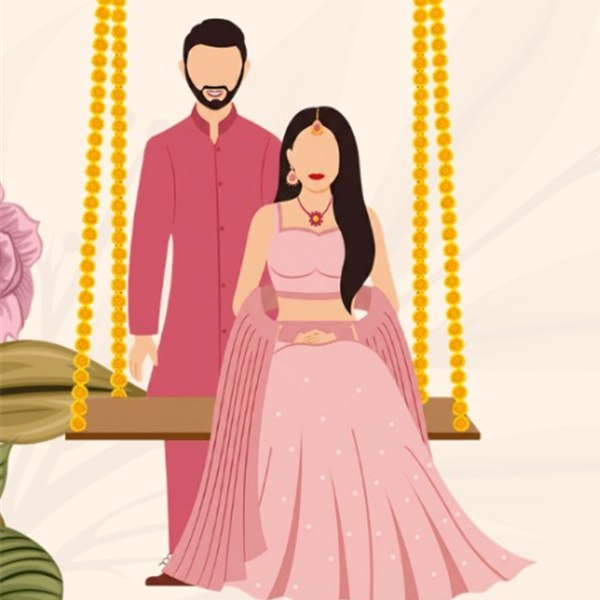
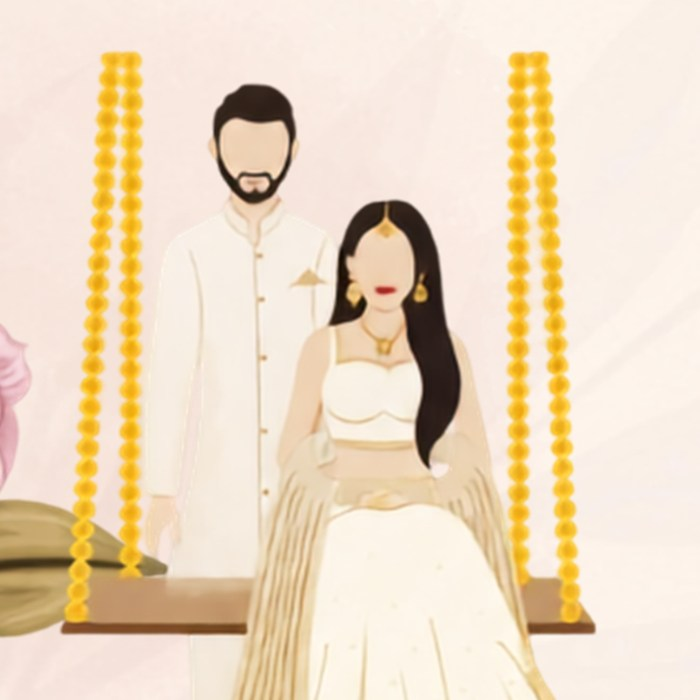
Refresh invitation imagery and story content
Copilot-Session: 50750d5d-2e1d-4188-bc5c-9cda99d4ebc3

diff --git a/frontend/src/components/invitation/Hero.js b/frontend/src/components/invitation/Hero.js
@@ -13,61 +13,65 @@ export default function Hero() {
   return (
     <section
       data-testid="hero-section"
-      className="relative flex min-h-screen flex-col items-center justify-center overflow-hidden px-6 pb-24 pt-20 text-center"
+      className="relative flex min-h-[100svh] flex-col items-center justify-center overflow-hidden px-5 pb-24 pt-16 text-center sm:px-6 sm:pt-20"
     >
       <img
-        src={images.heroFrame}
+        src={images.heroBackground}
         alt=""
         aria-hidden="true"
-        className="animate-sway pointer-events-none absolute inset-x-0 top-0 w-full select-none object-cover object-top opacity-95 [mask-image:linear-gradient(to_bottom,black_45%,transparent_96%)]"
+        className="pointer-events-none absolute inset-0 h-full w-full select-none object-cover object-center"
+      />
+      <div
+        className="pointer-events-none absolute inset-0 bg-[#0B301D]/45"
+        aria-hidden="true"
       />
 
       <motion.p
         {...rise(0.15)}
-        className="font-label text-[11px] text-[#B8860B] sm:text-xs"
+        className="relative font-label text-[10px] text-[#F4D06F] drop-shadow-sm sm:text-xs"
         data-testid="hero-invocation"
       >
         {invocation}
       </motion.p>
 
-      <motion.div {...rise(0.35)} className="relative mt-8 w-60 sm:w-80 lg:w-96">
-        <div className="gold-frame bg-[#FDFBF7] p-2.5 sm:p-3">
+      <motion.div {...rise(0.35)} className="relative mt-7 w-56 sm:mt-8 sm:w-80 lg:w-96">
+        <div className="gold-frame bg-[#FDFBF7]/95 p-2.5 sm:p-3">
           <div className="aspect-[3/4] overflow-hidden">
             <img
               src={couple.photo}
               alt="Arushi and Piyush"
               data-testid="couple-photo"
-              className="animate-slow-zoom h-full w-full object-cover object-top"
+              className="animate-slow-zoom h-full w-full object-contain"
             />
           </div>
         </div>
       </motion.div>
 
-      <motion.h1 {...rise(0.6)} className="font-name mt-10 leading-none text-[#1B3B2B]">
-        <span className="block text-4xl tracking-[0.26em] sm:text-6xl sm:tracking-[0.3em] lg:text-7xl">
+      <motion.h1 {...rise(0.6)} className="relative font-name mt-8 leading-none text-[#FFF8E8] drop-shadow-md sm:mt-10">
+        <span className="block text-4xl tracking-[0.2em] sm:text-6xl sm:tracking-[0.3em] lg:text-7xl">
           {couple.bride}
         </span>
-        <span className="font-display my-3 block text-3xl italic tracking-normal text-[#B8860B] sm:text-4xl">
+        <span className="font-display my-3 block text-3xl italic tracking-normal text-[#F4D06F] sm:text-4xl">
           &amp;
         </span>
-        <span className="block text-4xl tracking-[0.26em] sm:text-6xl sm:tracking-[0.3em] lg:text-7xl">
+        <span className="block text-4xl tracking-[0.2em] sm:text-6xl sm:tracking-[0.3em] lg:text-7xl">
           {couple.groom}
         </span>
       </motion.h1>
 
-      <motion.div {...rise(0.85)} className="mt-10">
+      <motion.div {...rise(0.85)} className="relative mt-8 sm:mt-10">
         <div className="flex items-center justify-center gap-3 sm:gap-5">
-          <span className="font-label text-[10px] text-[#525252] sm:text-xs">{wedding.day}</span>
-          <span className="h-3 w-px bg-[#D4AF37]/70" aria-hidden="true" />
-          <span className="font-label text-[10px] text-[#262626] sm:text-xs">{wedding.date}</span>
-          <span className="h-3 w-px bg-[#D4AF37]/70" aria-hidden="true" />
-          <span className="font-label text-[10px] text-[#525252] sm:text-xs">{wedding.year}</span>
+          <span className="font-label text-[9px] text-[#FFF8E8]/90 sm:text-xs">{wedding.day}</span>
+          <span className="h-3 w-px bg-[#F4D06F]/80" aria-hidden="true" />
+          <span className="font-label text-[9px] text-[#FFF8E8] sm:text-xs">{wedding.date}</span>
+          <span className="h-3 w-px bg-[#F4D06F]/80" aria-hidden="true" />
+          <span className="font-label text-[9px] text-[#FFF8E8]/90 sm:text-xs">{wedding.year}</span>
         </div>
-        <p className="font-display mt-6 text-lg tracking-[0.18em] text-[#1B3B2B] sm:text-xl">
+        <p className="font-display mt-5 text-lg tracking-[0.18em] text-[#FFF8E8] drop-shadow-sm sm:mt-6 sm:text-xl">
           {venue.name}
         </p>
-        <p className="font-label mt-1 text-[9px] text-[#B8860B] sm:text-[10px]">{venue.group}</p>
-        <p className="font-label mt-1 text-[9px] text-[#525252] sm:text-[10px]">{venue.address}</p>
+        <p className="font-label mt-1 text-[8px] text-[#F4D06F] sm:text-[10px]">{venue.group}</p>
+        <p className="font-label mt-1 text-[8px] text-[#FFF8E8]/80 sm:text-[10px]">{venue.address}</p>
       </motion.div>
 
       <motion.a
@@ -76,11 +80,11 @@ export default function Hero() {
         initial={{ opacity: 0 }}
         animate={{ opacity: 1 }}
         transition={{ delay: 1.6, duration: 1 }}
-        className="absolute bottom-7 left-1/2 flex -translate-x-1/2 flex-col items-center gap-3"
+        className="absolute bottom-6 left-1/2 flex -translate-x-1/2 flex-col items-center gap-3 sm:bottom-7"
       >
-        <span className="font-label text-[9px] text-[#B8860B]">SCROLL TO BEGIN</span>
-        <span className="relative block h-9 w-px overflow-hidden bg-[#D4AF37]/30">
-          <span className="scroll-dot absolute left-0 top-0 block h-2.5 w-px bg-[#B8860B]" />
+        <span className="font-label text-[8px] text-[#F4D06F] sm:text-[9px]">SCROLL TO BEGIN</span>
+        <span className="relative block h-9 w-px overflow-hidden bg-[#FFF8E8]/30">
+          <span className="scroll-dot absolute left-0 top-0 block h-2.5 w-px bg-[#F4D06F]" />
         </span>
       </motion.a>
     </section>

diff --git a/frontend/src/config/invitation.js b/frontend/src/config/invitation.js
@@ -4,12 +4,11 @@ export const INVITATION = {
   couple: {
     bride: "ARUSHI",
     groom: "PIYUSH",
-    hosts: "Smt. & Shri Vijay Singh Gahlot",
+    hosts: "Smt. & Shri Rajendra Madnani",
     brideParents: "Surabhi & Rajiv Gahlot",
     groomParents: "Smt. Sunita & Rajendra Madnani",
     groomHome: "Agra",
-    // Replace with the couple's real photograph, e.g. "/images/couple-photo.jpg"
-    photo: "/images/decor-feet.jpg",
+    photo: "/images/welcome-art.jpg",
   },
 
   wedding: {
@@ -30,7 +29,8 @@ export const INVITATION = {
   },
 
   images: {
-    heroFrame: "/images/hero-frame.svg",
+    heroBackground: "/images/hero-background.jpg",
+    invitationBackground: "/images/invitation-background.jpg",
     closing: "/images/closing.svg",
   },
 
@@ -51,7 +51,7 @@ export const INVITATION = {
       time: "12:00 NOON",
       title: "MEHANDI & HALDI",
       venue: ["Hotel Trident (The Oberoi Group)", "Fatehabad Road, Agra"],
-      image: "/images/event-mehandi.png",
+      image: "/images/journey-event-1.jpg",
     },
     {
       id: "cocktail",
@@ -61,7 +61,7 @@ export const INVITATION = {
       time: "07:00 PM",
       title: "COCKTAIL & RING CEREMONY",
       venue: ["Hotel Trident (The Oberoi Group)", "Fatehabad Road, Agra"],
-      image: "/images/event-cocktail.png",
+      image: "/images/journey-event-2.jpg",
     },
     {
       id: "wedding",
@@ -71,47 +71,40 @@ export const INVITATION = {
       time: "11:00 AM",
       title: "BARAAT & PHERE",
       venue: ["Hotel Trident (The Oberoi Group)", "Fatehabad Road, Agra"],
-      image: "/images/event-wedding.svg",
+      image: "/images/journey-event-3.jpg",
     },
   ],
 
-  // Placeholder chapters — replace text/image with the couple's real story.
   story: [
     {
       num: "01",
       title: "THE BEGINNING",
-      text: "Every beautiful story has a quiet first page. Ours is waiting to be written here — replace this with how it truly began.",
+      text: "Every beautiful story has a quiet first page. Ours began when our eyes met at the chai ki thadi in front of the college on the very first day.",
       image: "/images/story-1.png",
     },
     {
       num: "02",
       title: "THE FIRST CHAPTER",
-      text: "A first conversation, a first hello. Add the memory that started it all.",
-      image: "/images/story-2.png",
+      text: "The guy tried to look cool with long, wavy hair, rapping to impress, while the girl made fun of him — and the rest is history.",
+      image: "/images/story-new-02.jpg",
     },
     {
       num: "03",
       title: "THE JOURNEY",
-      text: "Roads travelled, cities wandered, laughter collected along the way. Add your favourite journey together.",
+      text: "From Agra to Meerut, Bangalore to Mumbai, and Noida to Delhi — physically apart, but emotionally closer every day.",
       image: "/images/story-3.png",
     },
     {
       num: "04",
       title: "THE LITTLE MOMENTS",
-      text: "The in-between moments that became everything. Add yours here.",
-      image: "/images/story-4.svg",
+      text: "In the age of WhatsApp, they shared handwritten letters for years, with every word creating the story of a lifetime.",
+      image: "/images/story-2.png",
     },
     {
       num: "05",
       title: "THE PROMISE",
-      text: "A question asked, a promise made. Replace this with the story of the yes.",
-      image: "/images/story-5.svg",
-    },
-    {
-      num: "06",
-      title: "FOREVER BEGINS",
-      text: "And now, forever begins — Sunday, October 25, 2026, surrounded by everyone we love.",
-      image: "/images/story-6.png",
+      text: "She said yes without him ever having to ask the question.",
+      image: "/images/story-new-05.jpg",
     },
   ],
 

diff --git a/frontend/src/components/invitation/InvitationCard.js b/frontend/src/components/invitation/InvitationCard.js
@@ -2,41 +2,41 @@ import { Reveal, SectionHead } from "./Reveal";
 import { INVITATION } from "@/config/invitation";
 
 export default function InvitationCard() {
-  const { couple } = INVITATION;
+  const { couple, images } = INVITATION;
 
   return (
     <section id="invitation" data-testid="invitation-section" className="relative overflow-hidden px-4 py-24 sm:py-32">
       <img
-        src="/images/decor-courtyard.jpg"
+        src={images.invitationBackground}
         alt=""
         aria-hidden="true"
-        className="pointer-events-none absolute inset-0 h-full w-full select-none object-cover object-bottom opacity-35 mix-blend-multiply [mask-image:radial-gradient(ellipse_75%_85%_at_50%_60%,black_25%,transparent_78%)]"
+        className="pointer-events-none absolute inset-0 h-full w-full select-none object-cover object-bottom"
       />
       <div className="relative mx-auto max-w-3xl">
         <Reveal>
           <SectionHead eyebrow="THE INVITATION" title="With Joy in Our Hearts" />
         </Reveal>
         <Reveal delay={0.1}>
-          <div className="gold-frame gold-speckle relative bg-[#FDFBF7] px-6 py-12 text-center sm:px-14 sm:py-16">
+          <div className="gold-frame gold-speckle relative bg-[#FDFBF7]/92 px-6 py-12 text-center backdrop-blur-[1px] sm:px-14 sm:py-16">
             <span className="pointer-events-none absolute left-3 top-3 text-lg text-[#B8860B]/60" aria-hidden="true">&#x0950;</span>
             <span className="pointer-events-none absolute bottom-3 right-3 text-lg text-[#B8860B]/60" aria-hidden="true">&#x0950;</span>
 
             <p className="font-display text-xl leading-relaxed text-[#404040] sm:text-2xl sm:leading-relaxed">
-              Smt. &amp; Shri Vijay Singh Gahlot request your presence on the auspicious
-              occasion of the marriage of their Grand Daughter
+              {couple.hosts} request your presence on the auspicious occasion of the
+              marriage of their Son
             </p>
-            <p className="font-name mt-7 text-2xl tracking-[0.22em] text-[#B91C1C] sm:text-3xl">
+            <p className="font-name mt-7 text-2xl tracking-[0.22em] text-[#1B3B2B] sm:text-3xl">
+              {couple.groom}
+            </p>
+            <p className="font-display mt-2 text-base italic text-[#525252] sm:text-lg">
+              (S/o {couple.groomParents})
+            </p>
+            <p className="font-display my-4 text-xl italic text-[#B8860B]">with</p>
+            <p className="font-name text-2xl tracking-[0.22em] text-[#B91C1C] sm:text-3xl">
               {couple.bride}
             </p>
             <p className="font-display mt-2 text-base italic text-[#525252] sm:text-lg">
               (D/o {couple.brideParents})
-            </p>
-            <p className="font-display my-4 text-xl italic text-[#B8860B]">with</p>
-            <p className="font-name text-2xl tracking-[0.22em] text-[#1B3B2B] sm:text-3xl">
-              {couple.groom}
-            </p>
-            <p className="font-display mt-2 text-base italic text-[#525252] sm:text-lg">
-              (S/o {couple.groomParents} &ndash; {couple.groomHome})
             </p>
 
             <div className="mx-auto mt-10 flex max-w-xs items-center justify-center gap-3" aria-hidden="true">

diff --git a/frontend/src/components/invitation/Wardrobe.js b/frontend/src/components/invitation/Wardrobe.js
@@ -3,7 +3,7 @@ import { INVITATION } from "@/config/invitation";
 
 export default function Wardrobe() {
   return (
-    <section data-testid="wardrobe-section" className="relative px-4 py-20 sm:py-28">
+    <section id="wardrobe" data-testid="wardrobe-section" className="relative px-4 py-20 sm:py-28">
       <div className="mx-auto max-w-5xl">
         <Reveal>
           <SectionHead
@@ -16,16 +16,21 @@ export default function Wardrobe() {
         <div className="grid gap-8 sm:grid-cols-3 sm:gap-6 lg:gap-8">
           {INVITATION.wardrobe.map((w, i) => (
             <Reveal key={w.id} delay={i * 0.12}>
-              <div className="gold-frame flex h-full flex-col bg-[#FDFBF7] p-4" data-testid={`wardrobe-card-${w.id}`}>
+              <div
+                className="gold-frame flex h-full flex-col bg-[#FDFBF7] p-4"
+                data-testid={`wardrobe-card-${w.id}`}
+              >
                 <div className="overflow-hidden border border-[#D4AF37]/35">
                   <img
                     src={w.image}
-                    alt={w.event}
+                    alt={`${w.event} wardrobe inspiration`}
                     loading="lazy"
                     className="aspect-square w-full object-cover"
                   />
                 </div>
-                <p className="font-label mt-6 text-center text-[9px] text-[#D4AF37]">{w.date}</p>
+                <p className="font-label mt-6 text-center text-[9px] text-[#D4AF37]">
+                  {w.date}
+                </p>
                 <h3 className="font-name mt-2 text-center text-sm tracking-[0.14em] text-[#1B3B2B] sm:text-base">
                   {w.event}
                 </h3>
@@ -33,16 +38,16 @@ export default function Wardrobe() {
                   {w.time} <span className="text-[#D4AF37]">|</span> {w.theme}
                 </p>
                 <div className="mt-4 flex items-center justify-center gap-2">
-                  {w.palette.map((c) => (
+                  {w.palette.map((color) => (
                     <span
-                      key={c}
+                      key={color}
                       className="h-5 w-5 rounded-full border border-[#262626]/15"
-                      style={{ backgroundColor: c }}
+                      style={{ backgroundColor: color }}
                       aria-hidden="true"
                     />
                   ))}
                 </div>
-                <p className="font-label mt-auto pt-4 pb-2 text-center text-[10px] leading-relaxed text-[#B8860B]">
+                <p className="font-label mt-auto pb-2 pt-4 text-center text-[10px] leading-relaxed text-[#B8860B]">
                   | {w.dressCode} |
                 </p>
               </div>

diff --git a/frontend/public/index.html b/frontend/public/index.html
@@ -8,8 +8,8 @@
     <meta property="og:title" content="Arushi & Piyush — Wedding Invitation" />
     <meta property="og:description" content="Sunday, October 25, 2026 · Hotel Trident, Fatehabad Road, Agra. Open to view your invitation." />
     <meta property="og:type" content="website" />
-    <meta property="og:image" content="https://piyush-arushi-invite.preview.emergentagent.com/images/story-6.png" />
-    <meta name="theme-color" content="#FAF6F0" />
+    <meta property="og:image" content="https://piyush-arushi-invite.preview.emergentagent.com/images/welcome-art.jpg" />
+    <meta name="theme-color" content="#185B2B" />
     <link rel="preconnect" href="https://fonts.googleapis.com" />
     <link rel="preconnect" href="https://fonts.gstatic.com" crossorigin />
     <link

diff --git a/frontend/src/components/invitation/Journey.js b/frontend/src/components/invitation/Journey.js
@@ -3,7 +3,7 @@ import { INVITATION } from "@/config/invitation";
 
 export default function Journey() {
   return (
-    <section data-testid="journey-section" className="relative px-4 py-20 sm:py-28">
+    <section id="journey" data-testid="journey-section" className="relative px-4 py-20 sm:py-28">
       <div className="mx-auto max-w-4xl">
         <Reveal>
           <SectionHead

diff --git a/frontend/src/components/invitation/Story.js b/frontend/src/components/invitation/Story.js
@@ -19,7 +19,7 @@ export default function Story() {
   }, [emblaApi, onSelect]);
 
   return (
-    <section data-testid="story-section" className="relative overflow-hidden py-20 sm:py-28">
+    <section id="story" data-testid="story-section" className="relative overflow-hidden py-20 sm:py-28">
       <div className="mx-auto max-w-5xl px-4">
         <Reveal>
           <SectionHead
